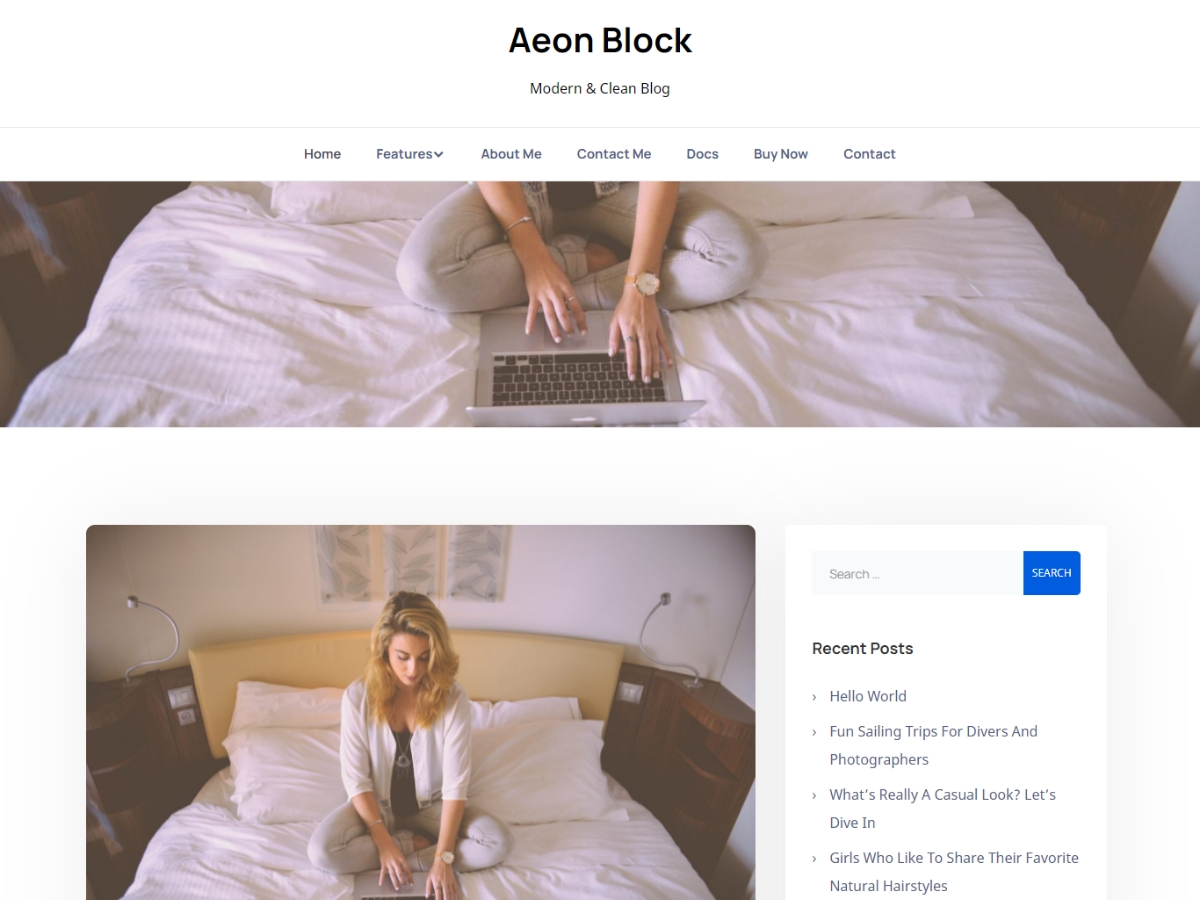
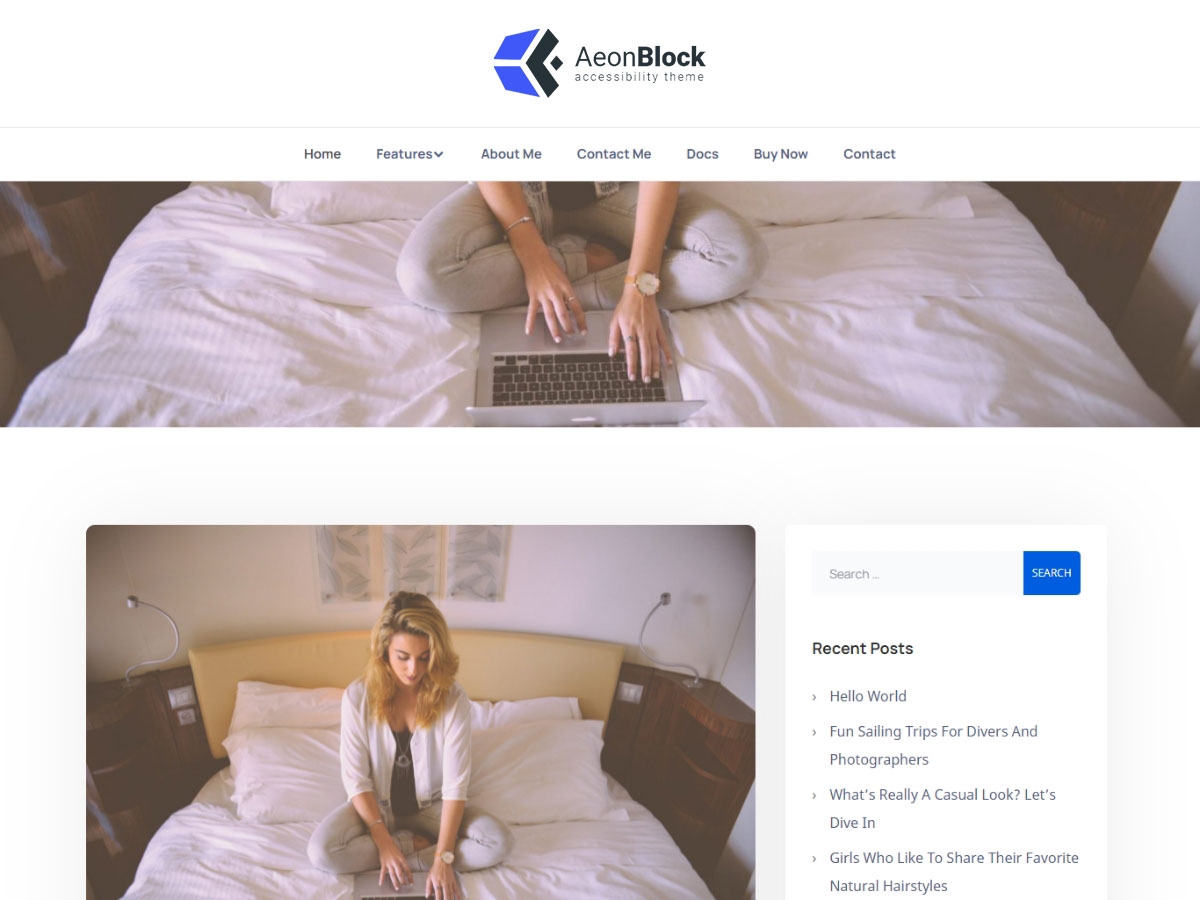
about page added

Changed region(s): [[0.4008, 0.0311, 0.5858, 0.1244]]

diff --git a/inc/about/about.css b/inc/about/about.css
@@ -1,0 +1,102 @@
+.appearance_page_aeon-theme .wrap,
+.appearance_page_aeon-theme .aeon-panel {
+	font-size: 16px;
+}
+.das-wrap{
+	margin: 20px 15px;
+	padding: 30px;
+	background:#fff;
+	box-shadow: 0 0 10px 0 rgba(183, 192, 206, 0.7);
+    -webkit-box-shadow: 0 0 10px 0 rgba(183, 192, 206, 0.7);
+    -moz-box-shadow: 0 0 10px 0 rgba(183, 192, 206, 0.7);
+    -ms-box-shadow: 0 0 10px 0 rgba(183, 192, 206, 0.7);
+    border-radius:8px;
+}
+.aeon-panel {
+    padding: 30px 0;
+    border-bottom: 1px solid #d9d9d9;
+}
+.aeon-panel:last-child{
+	border-bottom: 0;
+}
+.aeon-logo{
+	max-width: 200px;
+	margin:0;
+	display: inline-block;
+}
+.aeon-logo img{
+	max-width: 100%;
+}
+.pull-right{
+	float: right;
+}
+.btn{
+	display: inline-block;
+    padding: .95rem 1.5rem;
+    border-radius: 4px;
+    text-decoration: none;
+    font-weight: 500;
+    font-size: 14px;
+    border:2px solid;
+}
+
+.btn-primary {
+    background: #619ebb;
+    color: #fff;
+    border-color: transparent;
+}
+.btn-secondary {
+    background: #fff;
+    color: #333;
+    border-color: #dedede;
+}
+.btn-primary:focus, 
+.btn-primary:hover {
+    background: #2390c3;
+    color: #fff;
+}
+.btn-success{
+	background: #46b450;
+    color: #fff;
+}
+.btn-secondary:focus, 
+.btn-secondary:hover {
+    background: #fff;
+    color: #d42929;
+}
+.btn-success:focus, 
+.btn-success:hover {
+    background: #389a41;
+    color: #fff;
+}
+.theme-title {
+    margin-bottom: 1rem;
+    font-weight: 700;
+    font-size: 28px;
+}
+
+h2{
+    color: #23282d;
+    font-size: 1.3em;
+    margin: 0.8em 0;
+}
+
+h3{
+    color: #23282d;
+    font-size: 0.8em;
+    margin: 0.8em 0;
+}
+.aeon-panel p{
+    font-size: 18px;
+    margin-bottom: 2.5rem;
+    max-width: 70%;
+}
+.aeon-panel span{
+    display: flex;
+    font-size: 12px;
+    margin-bottom: 2.5rem;
+    max-width: 70%;
+    align-items: flex-end;
+    margin-top: 10px;
+   font-style: italic;
+}

diff --git a/style.css b/style.css
@@ -4,7 +4,7 @@ Theme URI: https://aeonwp.com/aeonblock/
 Author: aeontheme
 Author URI: https://aeonwp.com/
 Description: Simple and clean accessibility ready blog theme. It comes with easy to use customizer based theme options, copyright text, post templates, sidebar options, meta options, featured image option, excerpt length option, read more text, sticky sidebar, font preview and many more. AeonBlock has soft green and blue colors, and many color options. This is a complete WordPress theme for bloggers. It is Schema ready theme. 
-Version: 1.0.4
+Version: 1.0.5
 Tested up to: 5.9
 Requires PHP: 5.6
 License: GNU General Public License v2 or later

diff --git a/inc/upgrade/customize-controls.js b/inc/upgrade/customize-controls.js
@@ -1,0 +1,15 @@
+( function( api ) {
+
+	// Extends our custom "upgrade" section.
+	api.sectionConstructor['aeonblock_plus'] = api.Section.extend({
+
+		// No events for this type of section.
+		attachEvents: function () {},
+
+		// Always make the section active.
+		isContextuallyActive: function () {
+			return true;
+		}
+	} );
+
+} )( wp.customize );

diff --git a/inc/upgrade/class-customize.php b/inc/upgrade/class-customize.php
@@ -1,0 +1,99 @@
+<?php
+/**
+ * Singleton class for handling the theme's customizer integration.
+ *
+ * @since  1.0.5
+ * @access public
+ */
+final class AeonBlock_Customize {
+
+	/**
+	 * Returns the instance.
+	 *
+	 * @since  1.0.5
+	 * @access public
+	 * @return object
+	 */
+	public static function get_instance() {
+
+		static $instance = null;
+
+		if ( is_null( $instance ) ) {
+			$instance = new self();
+			$instance->setup_actions();
+		}
+
+		return $instance;
+	}
+
+	/**
+	 * Constructor method.
+	 *
+	 * @since  1.0.5
+	 * @access private
+	 * @return void
+	 */
+	private function __construct() {}
+
+	/**
+	 * Sets up initial actions.
+	 *
+	 * @since  1.0.5
+	 * @access private
+	 * @return void
+	 */
+	private function setup_actions() {
+
+		// Register panels, sections, settings, controls, and partials.
+		add_action( 'customize_register', array( $this, 'sections' ) );
+
+		// Register scripts and styles for the controls.
+		add_action( 'customize_controls_enqueue_scripts', array( $this, 'enqueue_control_scripts' ), 0 );
+	}
+
+	/**
+	 * Sets up the customizer sections.
+	 *
+	 * @since  1.0.5
+	 * @access public
+	 * @param object $manager
+	 * @return void
+	 */
+	public function sections( $manager ) {
+
+		// Load custom sections.
+		require_once( trailingslashit( get_template_directory() ) . 'inc/upgrade/section-pro.php' );
+
+		// Register custom section types.
+		$manager->register_section_type( 'AeonBlock_Customize_Section_Pro' );
+
+		// Register sections.
+		$manager->add_section(
+			new AeonBlock_Customize_Section_Pro(
+				$manager,
+				'aeonblock_plus',
+				array(
+					'pro_text2' => esc_html__( 'Unlock More Features', 'aeonblock' ),
+					'pro_url2'  => 'https://aeonwp.com/aeonblock-plus/',
+					'pro_text'  => esc_html__( 'Get Free Support', 'aeonblock' ),
+					'pro_url'   => 'https://aeonwp.com/support/',
+					'priority' => '1',
+				)
+			)
+		);
+	}
+
+	/**
+	 * Loads theme customizer CSS.
+	 *
+	 * @since  1.0.5
+	 * @access public
+	 * @return void
+	 */
+	public function enqueue_control_scripts() {
+		wp_enqueue_script( 'aeonblock-customize-controls', trailingslashit( get_template_directory_uri() ) . '/inc/upgrade/customize-controls.js', array( 'customize-controls' ) );
+	}
+}
+
+// Doing this customizer thang!
+AeonBlock_Customize::get_instance();

diff --git a/inc/about/about.php b/inc/about/about.php
@@ -1,0 +1,60 @@
+<?php
+/**
+ * Added aeon Page.
+*/
+
+/**
+ * Add a new page under Appearance
+ */
+function aeon_menu() {
+	add_theme_page( __( 'Aeon Block Options', 'aeonblock' ), __( 'Aeon Block Options', 'aeonblock' ), 'edit_theme_options', 'aeon-theme', 'aeon_page' );
+}
+add_action( 'admin_menu', 'aeon_menu' );
+
+/**
+ * Enqueue styles for the help page.
+ */
+function aeon_admin_scripts( $hook ) {
+	if ( 'appearance_page_aeon-theme' !== $hook ) {
+		return;
+	}
+	wp_enqueue_style( 'aeon-admin-style', get_template_directory_uri() . '/inc/about/about.css', array(), '' );
+}
+add_action( 'admin_enqueue_scripts', 'aeon_admin_scripts' );
+
+/**
+ * Add the theme page
+ */
+function aeon_page() {
+	?>
+	<div class="das-wrap">
+		<div class="aeon-panel">
+			<div class="aeon-logo">
+				<img class="ts-logo" src="<?php echo esc_url( get_template_directory_uri() . '/inc/about/images/aeonblock-logo.png' ); ?>" alt="Logo">
+			</div>
+			<a href="https://checkout.freemius.com/mode/dialog/theme/9988/plan/16803/licenses/1/" target="_blank" class="btn btn-success pull-right"><?php esc_html_e( 'Upgrade Pro $49.99', 'aeonblock' ); ?></a>
+			<p>
+			<?php esc_html_e( 'Accessibility Ready WordPress theme. Now, your website is accessible to everyone. Use this theme today.', 'aeonblock' ); ?></p>
+			<a class="btn btn-primary" href="<?php echo esc_url (admin_url( '/customize.php?' ));
+				?>"><?php esc_html_e( 'Theme Options - Click Here', 'aeonblock' ); ?></a>
+		</div>
+
+		<div class="aeon-panel">
+			<div class="aeon-panel-content">
+				<div class="theme-title">
+					<h3><?php esc_html_e( 'Looking for theme Documentation?', 'aeonblock' ); ?></h3>
+				</div>
+				<a href="https://aeonwp.com/aeonblock" target="_blank" class="btn btn-secondary"><?php esc_html_e( 'View Details - Click Here', 'aeonblock' ); ?></a>
+			</div>
+		</div>
+		<div class="aeon-panel">
+			<div class="aeon-panel-content">
+				<div class="theme-title">
+					<h3><?php esc_html_e( 'If you like the theme, please leave a review', 'aeonblock' ); ?></h3>
+				</div>
+				<a href="https://wordpress.org/support/theme/aeonblock/reviews/#new-post" target="_blank" class="btn btn-secondary"><?php esc_html_e( 'Rate this theme', 'aeonblock' ); ?></a>
+			</div>
+		</div>
+	</div>
+	<?php
+}

diff --git a/inc/upgrade/section-pro.php b/inc/upgrade/section-pro.php
@@ -1,0 +1,81 @@
+<?php
+/**
+ * Pro customizer section.
+ *
+ * @since  1.0.5
+ * @access public
+ */
+class AeonBlock_Customize_Section_Pro extends WP_Customize_Section {
+
+	/**
+	 * The type of customize section being rendered.
+	 *
+	 * @since  1.0.5
+	 * @access public
+	 * @var    string
+	 */
+	public $type = 'aeonblock_plus';
+
+	/**
+	 * Custom button text to output.
+	 *
+	 * @since  1.0.5
+	 * @access public
+	 * @var    string
+	 */
+	public $pro_text = '';
+	public $pro_text2 = '';
+
+	/**
+	 * Custom pro button URL.
+	 *
+	 * @since  1.0.5
+	 * @access public
+	 * @var    string
+	 */
+	public $pro_url = '';
+	public $pro_url2 = '';
+
+	/**
+	 * Add custom parameters to pass to the JS via JSON.
+	 *
+	 * @since  1.0.5
+	 * @access public
+	 * @return void
+	 */
+	public function json() {
+		$json = parent::json();
+
+		$json['pro_text'] = $this->pro_text;
+		$json['pro_url']  = esc_url( $this->pro_url );
+
+		$json['pro_text2'] = $this->pro_text2;
+		$json['pro_url2']  = esc_url( $this->pro_url2 );
+
+		return $json;
+	}
+
+	/**
+	 * Outputs the Underscore.js template.
+	 *
+	 * @since  1.0.5
+	 * @access public
+	 * @return void
+	 */
+	protected function render_template() {
+		?>
+
+		<li id="accordion-section-{{ data.id }}" class="accordion-section control-section control-section-{{ data.type }} cannot-expand">
+			<h3 class="accordion-section-title">
+				<# if ( data.pro_text2 && data.pro_url2 ) { #>
+					<a href="{{ data.pro_url2 }}" class="button button-secondary">{{ data.pro_text2 }}</a>
+				<# } #>
+				<br><br>
+				<# if ( data.pro_text && data.pro_url ) { #>
+					<a href="{{ data.pro_url }}" class="button button-secondary">{{ data.pro_text }}</a>
+				<# } #>
+			</h3>
+		</li>
+		<?php
+	}
+}

diff --git a/functions.php b/functions.php
@@ -337,3 +337,16 @@ if ( ! function_exists( 'aeonblock_breadcrumb_trail' ) ) {
  * Load dynamic css file.
 */
 require get_template_directory() . '/inc/functions/dynamic-css.php';
+
+/**
+ * Upgrade to pro
+ */
+require get_template_directory() . '/inc/upgrade/class-customize.php';
+
+/**
+ * For Admin Page
+ */
+if ( is_admin() ) {
+	require get_template_directory() . '/inc/about/about.php';
+}
+   
